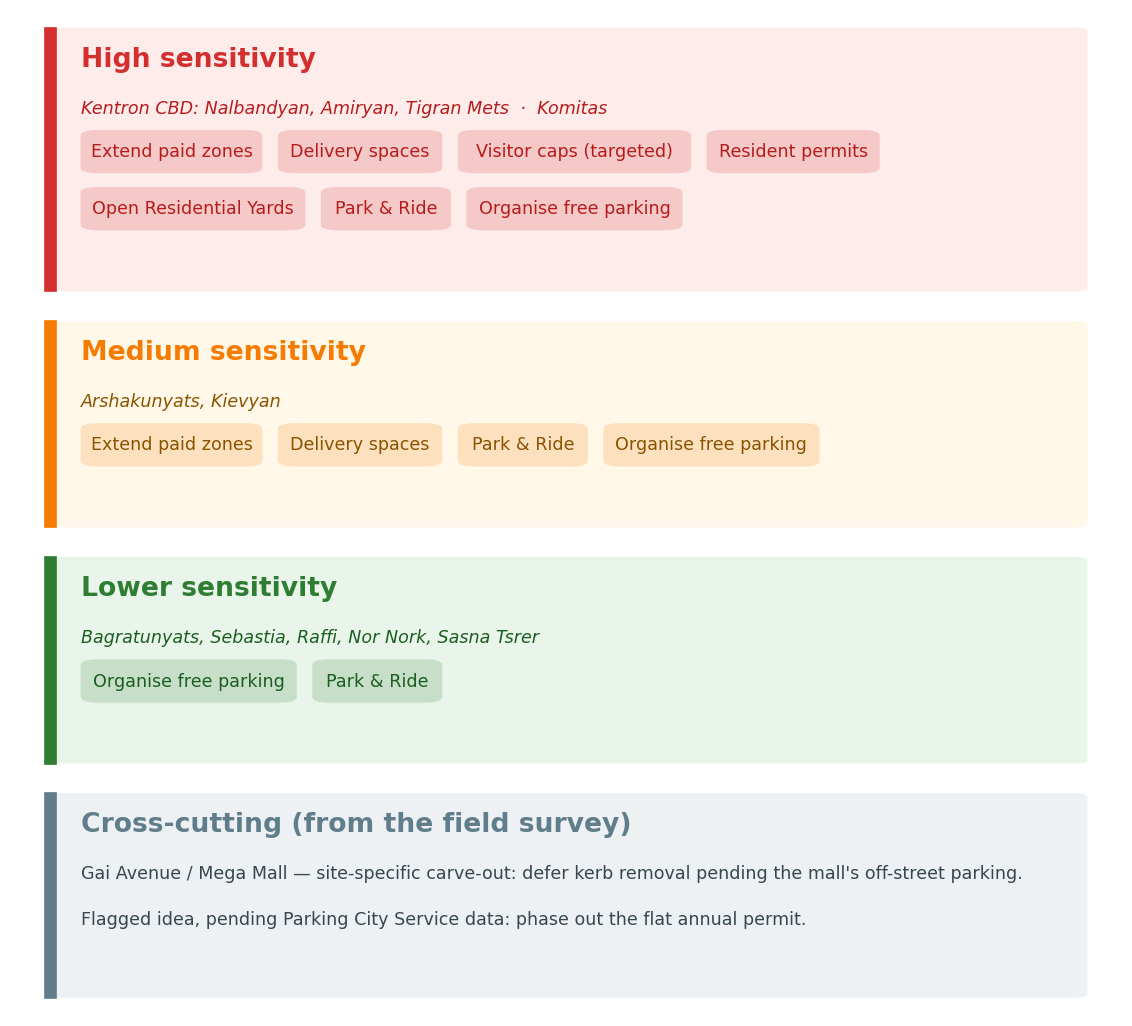
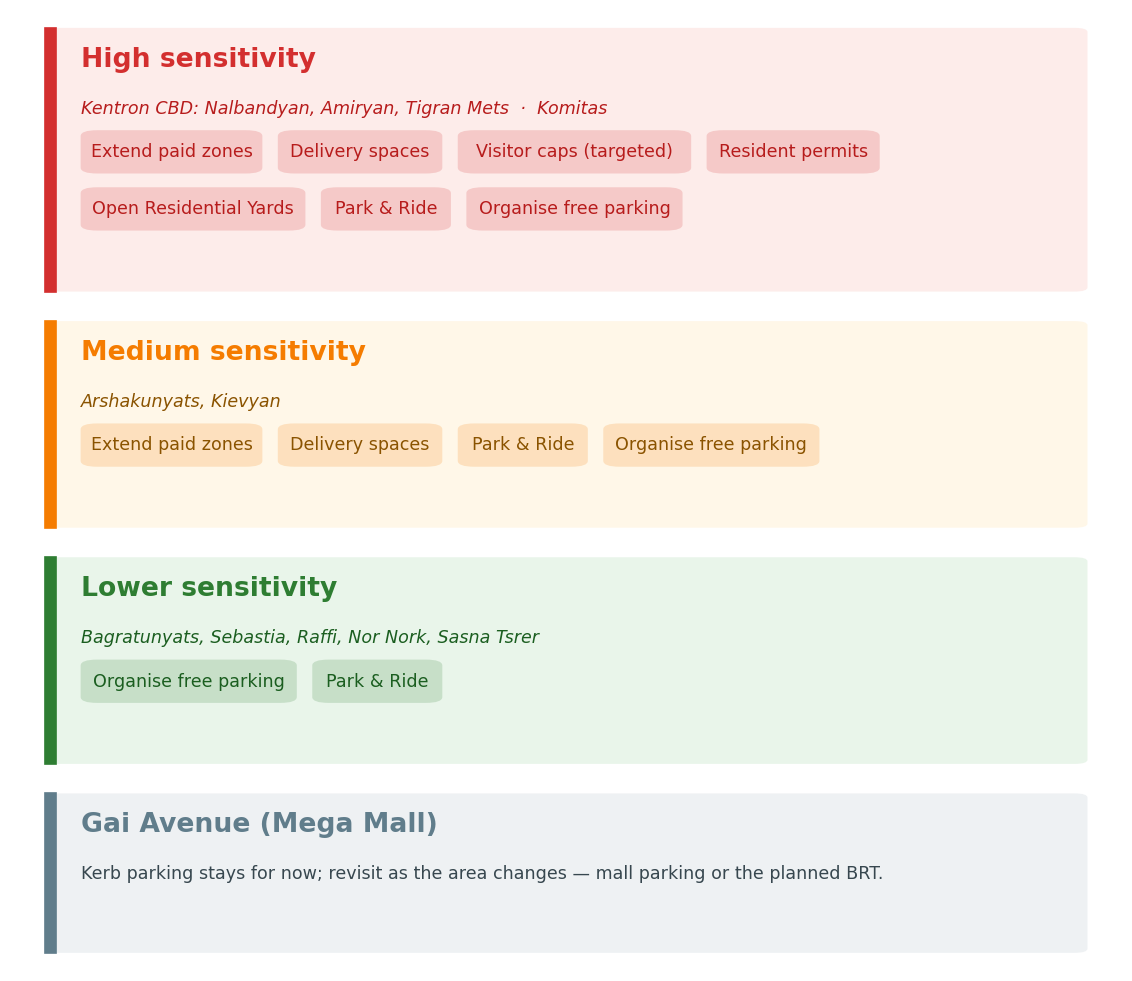
Gai Avenue rewording + web-app duration bins (1-hour boundary rule)
Report (Output 10):
- Reframe Gai Avenue from "site-specific carve-out" to plain wording across
  §6/§10/§11/§12: kerb parking stays for now (nowhere for displaced cars yet),
  revisit later as the area changes (mall parking or the planned BRT) — full
  explanation anchored once in §6, brief non-repeating nods elsewhere.
- Figure 10: rename the "Cross-cutting" panel to "Gai Avenue (Mega Mall)",
  drop the parenthetical and the annual-permit note (kept in report text).
- Decouple the figure script's matplotlib render from the swap input so it no
  longer overwrites the hand-made Figure 11 (yerevan (2).png).

Web app stay-length split (strictly duration data):
- Replace the 3-way visitor/commuter/long split with four data-driven bins
  (≤1h short visit / 2–4h errand / 5–8h worker / >8h all-day), separating the
  shopper vs worker behaviours the old "commuter 2–8h" band conflated.
- Apply the approved 1-hour boundary rule: a single-sweep stay seen only in the
  survey window's first/last hour is an overnight vehicle clipped by the daytime
  window, reclassified to the 8h+/overnight band. Split becomes 63/24/6/7,
  matching the report's adopted basis (~63% ≤1h, ~7% overnight).
- compute_field_survey_metrics.mjs keeps legacy visitor/commuter/long keys so the
  .docx report generators stay consistent; StoryStep + MapEngine render 4 bins.

Deliverables redated to 22062026 (Output 8 + Output 10); Figure 11 restored.
[…]

diff --git a/app/src/lib/components/StoryStep.svelte b/app/src/lib/components/StoryStep.svelte
@@ -249,14 +249,16 @@
 						<span class="profile-sub">avg {profile.duration.avg}h</span>
 					</div>
 					<div class="stay-bar">
-						<div class="stay-seg stay-visitor" style="width: {profile.duration.visitorPct}%"></div>
-						<div class="stay-seg stay-commuter" style="width: {profile.duration.commuterPct}%"></div>
-						<div class="stay-seg stay-long" style="width: {profile.duration.longPct}%"></div>
+						<div class="stay-seg stay-short" style="width: {profile.duration.shortPct}%"></div>
+						<div class="stay-seg stay-errand" style="width: {profile.duration.errandPct}%"></div>
+						<div class="stay-seg stay-worker" style="width: {profile.duration.workerPct}%"></div>
+						<div class="stay-seg stay-allday" style="width: {profile.duration.alldayPct}%"></div>
 					</div>
 					<div class="stay-legend">
-						<span><i class="stay-visitor"></i>Visitor &lt;2h · {profile.duration.visitorPct}%</span>
-						<span><i class="stay-commuter"></i>Commuter 2–8h · {profile.duration.commuterPct}%</span>
-						<span><i class="stay-long"></i>Long 8h+ · {profile.duration.longPct}%</span>
+						<span><i class="stay-short"></i>≤1h short visit · {profile.duration.shortPct}%</span>
+						<span><i class="stay-errand"></i>2–4h errand · {profile.duration.errandPct}%</span>
+						<span><i class="stay-worker"></i>5–8h worker · {profile.duration.workerPct}%</span>
+						<span><i class="stay-allday"></i>&gt;8h all-day · {profile.duration.alldayPct}%</span>
 					</div>
 				</div>
 			{/if}
@@ -520,9 +522,10 @@
 		background: rgba(255, 255, 255, 0.08);
 	}
 
-	.stay-seg.stay-visitor { background: #00e5ff; }
-	.stay-seg.stay-commuter { background: #ffd60a; }
-	.stay-seg.stay-long { background: #ff6b6b; }
+	.stay-seg.stay-short { background: #00e5ff; }
+	.stay-seg.stay-errand { background: #ffd60a; }
+	.stay-seg.stay-worker { background: #ff9f1c; }
+	.stay-seg.stay-allday { background: #ff6b6b; }
 
 	.stay-legend {
 		display: flex;
@@ -546,9 +549,10 @@
 		display: inline-block;
 	}
 
-	.stay-legend i.stay-visitor { background: #00e5ff; }
-	.stay-legend i.stay-commuter { background: #ffd60a; }
-	.stay-legend i.stay-long { background: #ff6b6b; }
+	.stay-legend i.stay-short { background: #00e5ff; }
+	.stay-legend i.stay-errand { background: #ffd60a; }
+	.stay-legend i.stay-worker { background: #ff9f1c; }
+	.stay-legend i.stay-allday { background: #ff6b6b; }
 
 	.comparison-block {
 		margin-bottom: 14px;

diff --git a/app/src/lib/components/MapEngine.svelte b/app/src/lib/components/MapEngine.svelte
@@ -592,14 +592,15 @@
 						<div style="display:flex;justify-content:space-between;font-size:9px;opacity:0.45;margin-top:2px"><span>${first}:00</span><span>${last}:00</span></div>`;
 				}
 				if (prof.stay) {
-					const { visitor = 0, commuter = 0, long = 0 } = prof.stay;
-					const tot = visitor + commuter + long || 1;
-					const vp = Math.round((visitor / tot) * 100), cp = Math.round((commuter / tot) * 100), lp = 100 - vp - cp;
+					const { short = 0, errand = 0, worker = 0, allday = 0 } = prof.stay;
+					const tot = short + errand + worker + allday || 1;
+					const sp = Math.round((short / tot) * 100), ep = Math.round((errand / tot) * 100),
+						wp = Math.round((worker / tot) * 100), ap = 100 - sp - ep - wp;
 					html += `<div style="margin-top:8px;font-size:10px;text-transform:uppercase;letter-spacing:0.5px;opacity:0.55">Stay length · avg ${prof.avg}h</div>
 						<div style="display:flex;height:8px;border-radius:4px;overflow:hidden;margin-top:4px;background:rgba(255,255,255,0.08)">
-							<div style="width:${vp}%;background:#00e5ff"></div><div style="width:${cp}%;background:#ffd60a"></div><div style="width:${lp}%;background:#ff6b6b"></div>
+							<div style="width:${sp}%;background:#00e5ff"></div><div style="width:${ep}%;background:#ffd60a"></div><div style="width:${wp}%;background:#ff9f1c"></div><div style="width:${ap}%;background:#ff6b6b"></div>
 						</div>
-						<div style="font-size:9px;opacity:0.6;margin-top:4px">Visitor &lt;2h ${vp}% · Commuter 2–8h ${cp}% · Long 8h+ ${lp}%</div>`;
+						<div style="font-size:9px;opacity:0.6;margin-top:4px">≤1h ${sp}% · 2–4h ${ep}% · 5–8h ${wp}% · &gt;8h ${ap}%</div>`;
 				}
 				return html;
 			}

diff --git a/apply_output10_edits.py b/apply_output10_edits.py
@@ -11,7 +11,8 @@ as revised after client review:
   - truck-pocket %  -> show the calculation basis (comment 1)
   - Tbilisi          -> cautionary case, not a model (comment 2)
   - flat annual permit -> flagged IDEA pending PCS data, not a committed measure (comment 3)
-  - Gai Avenue       -> plain wording + site-specific carve-out, not a new zone class (comment 0)
+  - Gai Avenue       -> plain wording: kerb parking stays for now, revisit as the area changes
+                        (mall parking / BRT); not a new zone class (comment 0)
 """
 import copy
 import shutil
@@ -202,12 +203,10 @@ ins_after("Lower-sensitivity zones include the outer sections of both corridors"
     "— only about 14% of its displaced demand can be re-absorbed on nearby streets. Komitas, "
     "previously medium, behaves as high-sensitivity (123% peak, 0% on-street absorption) and is "
     "reclassified accordingly. Shiraz/Hasratyan and Malatia-Sebastia behave as genuinely "
-    "lower-sensitivity (75% and 54% peak). Gai Avenue (Mega Mall) is a special case: it is the one "
-    "surveyed area where, even counting every nearby off-street yard at full capacity, there is "
-    "still not enough room to re-absorb the cars displaced by kerb removal (123% peak, best-case "
-    "absorption below 100%). It therefore does not fit any of the three standard packages; the "
-    "simplest handling is a site-specific carve-out — defer kerb removal here and lean on the Mega "
-    "Mall's own off-street structure — rather than creating a new zone category. Across the surveyed "
+    "lower-sensitivity (75% and 54% peak). Gai Avenue (Mega Mall) is the one exception: even filling "
+    "every nearby off-street yard to capacity, there is still nowhere for the displaced cars to go "
+    "(123% peak). So the kerb parking simply stays for now, and gets a fresh look later as the area "
+    "changes — the mall's own parking, or the planned BRT line. Across the surveyed "
     "areas, peak displaced demand was 908 vehicles against 1,643 spaces removed (55%), confirming "
     "with local measurement that displaced demand falls well below the supply removed.")
 
@@ -282,18 +281,15 @@ ins_after("It is important to acknowledge that not all displaced parking",
     "Survey-specific caveats. The field survey observed a daytime window (07:00–24:00) and so "
     "under-counts true overnight-residential demand; it covered six representative areas rather than "
     "the full corridor; and the absorption figures are gross best-case (yards counted as if already "
-    "open). One residual risk is specific: Gai Avenue (Mega Mall) is the single surveyed area where "
-    "even best-case capacity cannot fully absorb the displaced demand, and is handled as a "
-    "site-specific carve-out (defer kerb removal pending the mall's off-street parking) rather than "
-    "through the standard zone packages.")
+    "open). One residual risk is specific: Gai Avenue (Mega Mall) is the one area even best-case "
+    "capacity can't cover, so its kerb parking is left in place for now.")
 
 # ============================================================ 11. RECOMMENDATIONS — packages by sensitivity zone
 ins_after("This zoning approach is important because it turns the mitigation strategy",
     "Measured recalibration of the packages. Komitas moves into the high-sensitivity zone (123% "
     "peak, 0% on-street absorption). Open Residential Yards moves up into the high-sensitivity "
-    "package as a committed precondition. Gai Avenue (Mega Mall) is handled as a site-specific "
-    "carve-out — defer kerb removal pending the mall's off-street parking — rather than as a new "
-    "zone class. The candidate idea to phase out the flat annual permit is noted against the "
+    "package as a committed precondition. Gai Avenue stays as-is for now rather than becoming its "
+    "own zone class. The candidate idea to phase out the flat annual permit is noted against the "
     "cross-cutting package as a flagged option, pending Parking City Service data. Figure 10 "
     "(measures by zone) and the sensitivity map are updated to match.")
 
@@ -306,7 +302,8 @@ ins_after("Enforcement and modal shift underpin demand reduction",
     "(908 against 1,643). Aggregate re-absorption approaching 100% is achievable but conditional on "
     "opening the gated residential yards, which carry about 92% of the absorptive capacity. The "
     "measured behaviour recalibrates the zoning — Komitas behaves as high-sensitivity (reclassify "
-    "from medium) and Gai Avenue is handled as a site-specific carve-out — and reduces, but does not "
+    "from medium) and Gai Avenue's kerb parking is left for now, to revisit as the area develops — "
+    "and reduces, but does not "
     "eliminate, the items requiring further study (overnight-residential demand, full-corridor "
     "extension, freight counts, and ANPR payment-compliance remain genuine gaps).")
 

diff --git a/gen_output10_figures.py b/gen_output10_figures.py
@@ -4,10 +4,10 @@ then swap them into the redline working copy.
 
 Figure 10 — "Mitigation measures grouped by sensitivity zones" (card graphic):
   Komitas moves Medium->High; Open Residential Yards elevated into the High package;
-  Visitor caps marked targeted; footer notes the Gai Avenue carve-out and the
-  flagged (not-yet-adopted) annual-permit idea.
-Figure 11 — sensitivity map (static render from sensitivity-zones.geojson) with the
-  Komitas segment recoloured Medium->High.
+  Visitor caps marked targeted; a dedicated Gai Avenue (Mega Mall) panel notes
+  that its kerb parking stays for now (revisit as the area changes).
+Figure 11 — sensitivity map: the manually-refined "yerevan (2).png" placed in the
+  report folder is swapped in (supersedes the matplotlib render).
 
 Outputs PNG/JPEG beside the report and replaces word/media/image14.png (Fig 10) and
 word/media/image15.jpeg (Fig 11) inside "...20260417 (rev).docx".
@@ -29,7 +29,11 @@ RPT = os.path.join(ROOT, "Field Surveys/Field Surveys Report")
 SZ = os.path.join(ROOT, "app/static/data/wgs84/sensitivity-zones.geojson")
 REV = os.path.join(RPT, "Parking Analysis Report - 20260417 (rev).docx")
 FIG10 = os.path.join(RPT, "fig10_sensitivity_packages.png")
-FIG11 = os.path.join(RPT, "fig11_sensitivity_map.jpg")
+# Fig 11 swapped into the docx is the manually-refined map placed in the report
+# folder. The matplotlib block below renders to FIG11_RENDER (its own, unused
+# file) so it never overwrites the hand-made map that gets swapped in (FIG11).
+FIG11_RENDER = os.path.join(RPT, "fig11_sensitivity_map.jpg")
+FIG11 = os.path.join(RPT, "yerevan (2).png")
 
 # ----------------------------------------------------------------------------
 # FIGURE 10 — sensitivity-package cards
@@ -49,12 +53,10 @@ PANELS = [
     dict(title="Lower sensitivity", accent="#2e7d32", bg="#e9f5ea", ink="#1b5e20",
          streets="Bagratunyats, Sebastia, Raffi, Nor Nork, Sasna Tsrer",
          pills=["Organise free parking", "Park & Ride"]),
-    dict(title="Cross-cutting (from the field survey)", accent="#607d8b",
+    dict(title="Gai Avenue (Mega Mall)", accent="#607d8b",
          bg="#eef1f3", ink="#37474f", streets=None,
-         notes=["Gai Avenue / Mega Mall — site-specific carve-out: defer kerb "
-                "removal pending the mall's off-street parking.",
-                "Flagged idea, pending Parking City Service data: phase out the "
-                "flat annual permit."]),
+         notes=["Kerb parking stays for now; revisit as the area changes — "
+                "mall parking or the planned BRT."]),
 ]
 
 # layout constants (x range 0..100; y accumulates downward in 'units')
@@ -191,10 +193,10 @@ legend = [Line2D([0], [0], color=COLORS[s], lw=6, label=l) for s, l in
 leg = max_.legend(handles=legend, loc="upper left", frameon=True, fontsize=11,
                   labelcolor="white")
 leg.get_frame().set_facecolor("#222222"); leg.get_frame().set_edgecolor("#444444")
-mfig.savefig(FIG11, dpi=120, facecolor="#141414", bbox_inches="tight", pad_inches=0.15,
+mfig.savefig(FIG11_RENDER, dpi=120, facecolor="#141414", bbox_inches="tight", pad_inches=0.15,
              pil_kwargs={"quality": 90})
 plt.close(mfig)
-print("WROTE", FIG11)
+print("WROTE", FIG11_RENDER)
 
 # ----------------------------------------------------------------------------
 # Swap both images into the rev docx via python-docx parts (robust to media